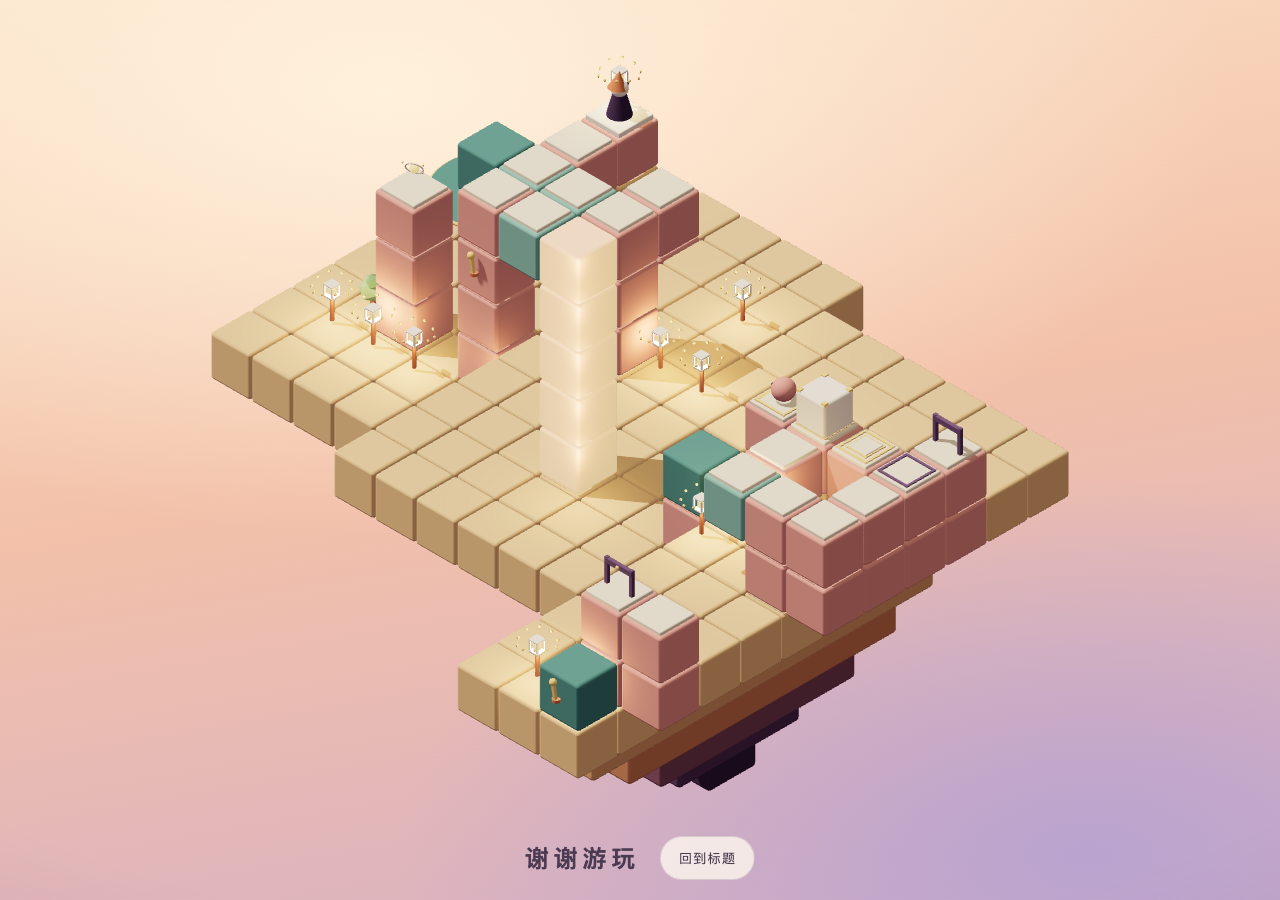
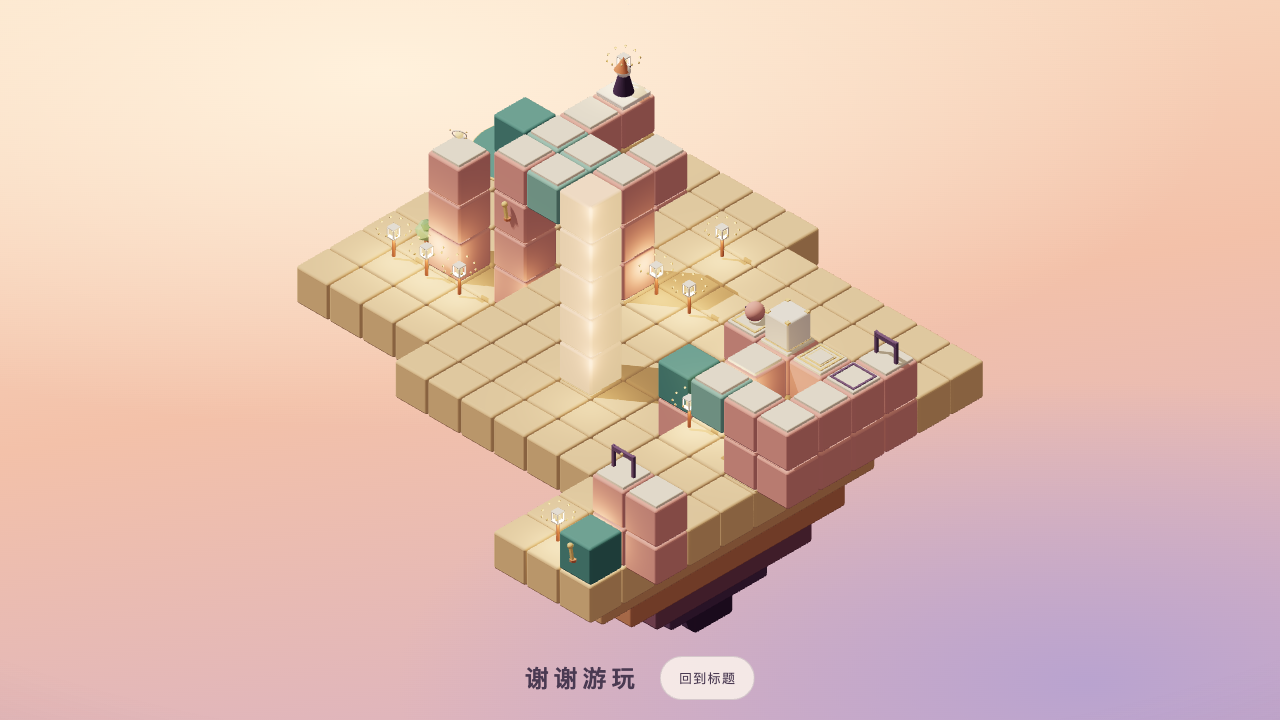
docs: 完成二十关性能与文档收尾（T6.22）

Changed region(s): [[0.1562, 0.0611, 0.8438, 0.9778]]

diff --git a/index.html b/index.html
@@ -10,7 +10,7 @@
     <link rel="icon" type="image/svg+xml" href="./favicon.svg" />
     <meta
       name="description"
-      content="转动桥梁、移动平台，路看似相连，就能走过去。Seemingly（积木错位）是一款打开即玩的等距视角解谜游戏，九关旅程，进度保存在浏览器本地。"
+      content="转动桥梁、移动平台，路看似相连，就能走过去。Seemingly（积木错位）是一款打开即玩的等距视角解谜游戏，十五个主线关卡、五个挑战，进度保存在浏览器本地。"
     />
     <title>Seemingly · 积木错位</title>
     <link rel="canonical" href="https://zzugbb.github.io/Seemingly/" />
@@ -20,7 +20,7 @@
     <meta property="og:title" content="Seemingly · 积木错位" />
     <meta
       property="og:description"
-      content="转动桥梁、移动平台，路看似相连，就能走过去。Seemingly（积木错位）是一款打开即玩的等距视角解谜游戏，九关旅程，进度保存在浏览器本地。"
+      content="转动桥梁、移动平台，路看似相连，就能走过去。Seemingly（积木错位）是一款打开即玩的等距视角解谜游戏，十五个主线关卡、五个挑战，进度保存在浏览器本地。"
     />
     <meta property="og:url" content="https://zzugbb.github.io/Seemingly/" />
     <meta property="og:image" content="https://zzugbb.github.io/Seemingly/social-card.png" />
@@ -32,7 +32,7 @@
     <meta name="twitter:title" content="Seemingly · 积木错位" />
     <meta
       name="twitter:description"
-      content="转动桥梁、移动平台，路看似相连，就能走过去。Seemingly（积木错位）是一款打开即玩的等距视角解谜游戏，九关旅程，进度保存在浏览器本地。"
+      content="转动桥梁、移动平台，路看似相连，就能走过去。Seemingly（积木错位）是一款打开即玩的等距视角解谜游戏，十五个主线关卡、五个挑战，进度保存在浏览器本地。"
     />
     <meta name="twitter:image" content="https://zzugbb.github.io/Seemingly/social-card.png" />
     <meta name="twitter:image:alt" content="积木错位标题画面：黄昏天空中的漂浮积木岛、戴尖帽的小人和灯笼。" />

diff --git a/docs/performance.md b/docs/performance.md
@@ -1,6 +1,80 @@
-# 性能检查（T6.19）
+# 性能检查（T6.22）
 
-检查日期：2026-10-24。基线：`a776e87` 加本任务灯笼光粒合批。当前正式五章十五关，以下为最新结果；阶段一十二关和首版九关记录保留在文末，不能代替本轮数据。
+检查日期：2026-10-25。运行基线：`f3541d4`，当前十五主线加五挑战、二十关／六十项评价。本轮更新文档、正式截图与分享简介，保留已确认的关卡、目标、revision、存档、依赖与h1混音；历史三轮数据保留在文末，不能替代本轮结果。
+
+## 本轮范围与方法
+
+- 用户表示五挑战试玩完成，在明确询问整体与慢速音乐是否有难度、操作或反馈盖声问题后回复“没有”。据此确认本轮体验与声音，继续技术收尾，不自动推送。
+- Browser插件不可用，使用已有Playwright／Chromium147。ANGLE (Apple, ANGLE Metal Renderer: Apple M5 Pro, Unspecified Version)；WebGL2，桌面1280×720高画质、手机尺寸375×667低画质，DPR均1，正常动态。两组顺序执行，采样期间不并行构建、测试、音频导出或其他浏览器。
+- 隔离5182只为正式源码加入临时只读Scene／Worker探针，不替换关卡或写角色状态；逐步真实点击并与rules状态比对，每步截图刷新再等空闲。探针不在src与生产构建。5180用户存档未访问、清空或预置。
+- 手机从全新进度完成十五关全收集、自然解锁并完成五挑战全收集。桌面从新进度完成十五关主线；挑战阶段只导入该手机实玩得到的母章记录，与桌面已实际取得的主线评价合并后解锁，未伪造光点或挑战成绩。这是两套隔离验收流程，不称桌面主线一次就自然解锁了所有挑战。
+- 每关提示Worker ready后预热0.6秒，再取60帧。调用数为Scene.onAfterRender的renderer.info.render.calls，含高画质阴影pass，低画质逐关确认关闭阴影。帧时间中位数／P95来自59个间隔。后台准备含Worker创建、模块加载与策略建立，并非纯analyze时间。
+- 全过程峰值覆盖所走解法、运动、收光、点灯、完成卡及完整十五灯／塔演出后1.2秒，不穷举所有机关排列。手机仅尺寸模拟，**不代表中端手机或集成显卡真机长期60帧验收**；此项硬件限制保留。
+
+## 二十关结果
+
+调用列为“开局 / 全过程峰值”；帧时间为“中位数 / P95”，单位毫秒。后台准备同为毫秒。
+
+| 关卡 | 高画质调用 | 低画质调用 | 高画质帧时间 | 低画质帧时间 | 后台准备 高 / 低 |
+| --- | ---: | ---: | ---: | ---: | ---: |
+| 1 · 启程 | 93 / 95 | 66 / 68 | 8.3 / 9.2 | 8.3 / 9.2 | 14.6 / 24.4 |
+| 2 · 转动 | 75 / 77 | 56 / 58 | 8.3 / 9.6 | 8.3 / 8.9 | 13.0 / 12.8 |
+| 3 · 随行 | 84 / 86 | 62 / 64 | 8.4 / 9.4 | 8.3 / 9.1 | 12.3 / 13.4 |
+| 4 · 换乘 | 115 / 117 | 85 / 87 | 8.4 / 9.4 | 8.3 / 9.1 | 14.3 / 15.6 |
+| 5 · 叠庭 | 169 / 171 | 121 / 123 | 8.3 / 9.6 | 8.3 / 9.3 | 24.5 / 23.2 |
+| 6 · 回环 | 157 / 159 | 117 / 119 | 8.3 / 9.2 | 8.4 / 9.8 | 20.6 / 21.3 |
+| 7 · 停靠 | 124 / 126 | 93 / 95 | 8.3 / 9.9 | 8.2 / 9.9 | 24.3 / 23.5 |
+| 8 · 联动 | 150 / 152 | 114 / 116 | 8.4 / 9.1 | 8.3 / 9.6 | 32.1 / 30.7 |
+| 9 · 牵引 | 185 / 187 | 135 / 137 | 8.3 / 9.3 | 8.3 / 9.8 | 40.6 / 39.3 |
+| 10 · 推动 | 176 / 178 | 131 / 133 | 8.5 / 9.2 | 8.3 / 9.7 | 45.0 / 45.4 |
+| 11 · 越界 | 216 / 218 | 166 / 168 | 8.3 / 9.2 | 8.3 / 10.4 | 137.8 / 131.1 |
+| 12 · 重量 | 248 / 250 | 186 / 188 | 8.3 / 9.6 | 8.3 / 10.2 | 392.6 / 388.9 |
+| 13 · 留步 | 170 / 172 | 126 / 128 | 8.4 / 9.2 | 8.3 / 9.9 | 202.0 / 199.0 |
+| 14 · 相守 | 196 / 198 | 151 / 153 | 8.3 / 9.6 | 8.3 / 10.0 | 885.6 / 868.7 |
+| 15 · 归来 | 208 / 347 | 159 / 275 | 8.2 / 9.7 | 8.2 / 10.3 | 339.0 / 342.6 |
+| 挑战1 · 回针 | 132 / 134 | 97 / 99 | 8.3 / 9.1 | 8.2 / 9.9 | 128.2 / 107.5 |
+| 挑战2 · 分岸 | 216 / 218 | 152 / 154 | 8.3 / 9.3 | 8.3 / 10.0 | 131.9 / 116.4 |
+| 挑战3 · 逆织 | 160 / 162 | 121 / 123 | 8.3 / 10.0 | 8.3 / 10.2 | 124.6 / 50.6 |
+| 挑战4 · 递位 | 299 / 301 | 223 / 225 | 8.3 / 10.5 | 8.3 / 9.8 | 1180.2 / 1160.3 |
+| 挑战5 · 相托 | 262 / 264 | 198 / 200 | 8.4 / 9.7 | 8.4 / 10.1 | 1450.3 / 1381.8 |
+
+主线十五关152／176步，挑战五关94／114步；桌面合计246步，手机尺寸合计290步。高／低画质全过程峰值347／275，均低于400次预算；无需修改渲染或谜题。后台准备最慢1450.3／1381.8ms。纯函数冷求解两秒及主线30000／挑战100000状态门槛仍由现有测试强制，不以后台准备时间替代。
+
+## 进度、界面与声音确认
+
+两套流程起初均只有第一关可玩，二十张卡与六组入口可见。手机十五关全部全收集后自然解锁五挑战；完成后15/15、44/60。桌面十五关主线阶段33/60，载入实际手机母章记录合并历史后45/60，再实玩挑战达到56/60。没有预置满评价；全收集与最少步数分别累计。
+
+挑战完成均回到选关，未跳到可能锁定的下一挑战，也未误入主线结局；十五关仍完成十五灯、塔与“谢谢游玩”。两套流程刷新保留成绩和静音，首次教学记忆保持；重复提示局完成第一关不抹已有三项评价。桌面真实预览与手机无预览保持，无横向溢出、错误覆盖或应用错误；仅保留已有Clock／阴影提示。
+
+T6.21已验证正式五挑战干扰、撤销、提示局补评及约221秒慢速乐句循环；本轮用户进一步明确认可整体体验与新声，保留同一源码和混音，不重新调音。减少动态另以手机尺寸实点挑战五与终章，确认必要运动保留、灯笼光粒不创建；完整操作日志见本机记录。
+
+页面及社交分享简介已由旧“九关旅程”改为十五主线与五挑战。README更新为当前挑战五桌面交接与挑战二手机开局，完整结局截图也来自本轮f3541d4。参考设计图仍标原型，不冒充正式实景；这些图片只由文档引用，不进入游戏首屏资源。
+
+![当前正式十五灯结局](assets/ending.png)
+
+## 生产资源与子路径
+
+Node24 zlib.gzipSync默认参数，体积不含HTTP头；服务端压缩参数可能不同。首屏资源不含按需Worker及文档图片。
+
+| 首屏资源 | 原始字节 | gzip字节 |
+| --- | ---: | ---: |
+| dist/index.html | 2638 | 921 |
+| dist/assets/index-BPHV1jw0.js | 1284087 | 351184 |
+| dist/assets/index-DW2B41fi.css | 16777 | 3923 |
+| dist/favicon.svg | 250 | 170 |
+| **合计** | **1303752** | **356198** |
+
+首屏约356.2 KB，低于1 MB预算；提示Worker另为51054字节／gzip 11242字节。保留原始chunk超过500 KB提示，不为去掉警告拆包。
+
+生产构建在隔离5183的`/Seemingly/`子路径检查标题、首关、提示Worker、20卡／6组／初始19锁定，再导入本轮实际进度进入第五挑战并请求提示；两关Worker均返回对应最少步数3／19与有效下一步，无404、无应用错误、无场景测量探针。完整交互及帧测量来自前述开发源，不能将生产冒烟检查写成生产二十关完整实玩。
+
+复核命令仍为npm run build和Node zlib.gzipSync，旧节保留完整命令。四项检查及393项测试通过。T6.22本地收尾完成，未推送发布；目标设备长期帧率仍待真机补测，不将本机数据外推为所有设备稳定60帧。逐关截图、完整测量、进度与脚本在/private/tmp/seemingly-t622/，正式结论以本文为准。
+
+---
+
+## 阶段二历史基线（T6.19）
+
+检查日期：2026-10-24。基线：`a776e87` 加本任务灯笼光粒合批。当时正式五章十五关；本节仅为历史记录，当前二十关以T6.22结果为准。
 
 ## 本轮范围与方法
 
@@ -48,7 +122,7 @@
 - 正常动态下实点撤销／再次点灯／重开／退出与静音恢复，确认实例光粒清空、旧演出和未来音效取消；实际音频采样峰值0.0557，总源≤11、音乐≤6、反馈拒绝0。第五章实际运行195.76秒（超过两个91.429秒循环），无错章、无报错，音源峰值5且未随循环累积，采样峰值0.0270；静音清零、恢复只重建音乐。手机减少动态模式另按15步主线实点完成全部结局，确认十五灯均不创建光粒。音频源码及混音未调，电平不替代已获得的用户听感确认。
 - README更新为第十四关桌面返程与第十三关手机开局，补巡逻随动作推进的玩法；正式结局截图见下图。旧设计原型图仍标为原型，不冒充运行图。完整日志／逐关截图／脚本在本机`/private/tmp/seemingly-t619/`，正式汇总以本文和关卡稿为准。
 
-![正式十五灯结局](assets/ending.png)
+![十五灯结局示意（图由T6.22更新，本节数值仍为T6.19）](assets/ending.png)
 
 ## 当前资源与子路径
 

diff --git a/README.md b/README.md
@@ -17,11 +17,11 @@
 
 ---
 
-![第十四关「相守」：箱子与巡逻共同守门](docs/assets/gameplay.png)
+![挑战五「相托」：运回箱子，让出站位](docs/assets/gameplay.png)
 
-当前开发版提供五章十五关：从改变连接、乘坐和换乘，到联动、压板召台、推箱规划与巡逻重量交接，最终点亮十五盏灯和一座塔。挑战章尚未开放。在线版本以最近一次发布为准。
+当前开发版提供五章十五个主线关卡与五个挑战关：从改变连接、乘坐和换乘，到联动、压板召台、推箱规划与巡逻重量交接。主线最终点亮十五盏灯和一座塔，挑战独立解锁、不影响结局。在线版本以最近一次发布为准。
 
-五章依次为「看似、转动、升起、推动、遮挡」，每章三关。五章关卡、完整结局与合成音乐已通过本轮用户试玩确认，后续进度见[路线图](docs/roadmap.md)。
+五章依次为「看似、转动、升起、推动、遮挡」，每章三关。五章主线、完整结局、五个挑战与各自音乐已通过分阶段用户试玩确认，开发记录见[路线图](docs/roadmap.md)。
 
 ## 玩法
 
@@ -33,21 +33,23 @@
 4. 第五章的小生物每当你完成一个动作就走一格，受阻会停下，也能压住双框压板；等待现实时间不会让它前进。
 5. 集齐必需光点后抵达灯笼即可通关；带细环的是选做光点。每关可获得抵达、全收集与最少步数三项评价，历史分别累计；本局使用提示会影响本局步数评价。进度保存在浏览器本地。
 
-电脑和手机都用点击操作。`Z` 撤销，`H` 提示，`R` 重新开始，`Esc` 返回选关；右上角可切换静音。首次交互后播放按章编写的主题音乐与合成反馈音；收光、点灯等反馈出现时背景会短暂降低，静音选择也会保存。
+第一章全部通关后解锁挑战一；第二至五章集齐本章选做光点后解锁对应挑战。挑战进一步运用已学机制：安排回访顺序、回岸换端、换用正反控制、交接箱位和让巡逻换岗。二十关共有六十项历史评价，挑战完成后回到选关，可自由重玩。
+
+电脑和手机都用点击操作。`Z` 撤销，`H` 提示，`R` 重新开始，`Esc` 返回选关；右上角可切换静音。首次交互后播放按章编写的主题音乐与合成反馈音，挑战沿用对应章乐句并以90%速度播放；收光、点灯等反馈出现时背景会短暂降低，静音选择也会保存。
 
 需要支持 WebGL2 的浏览器。手机默认使用低画质，也可用 `?quality=low` 或 `?quality=high` 指定画质；支持系统的「减少动态效果」设置。
 
-<img src="docs/assets/gameplay-mobile.png" alt="手机尺寸下的第十三关「留步」" width="300" />
+<img src="docs/assets/gameplay-mobile.png" alt="手机尺寸下的挑战二「分岸」：回岸换端再渡" width="300" />
 
 ## 技术亮点
 
 - **屏幕上的连通**：用 `(x - y, z - y)` 判断路面是否相邻，以固定等距正交视角呈现跨越三维距离的错觉连接。
-- **可验证的关卡**：纯 TypeScript 规则层供模拟器、求解器和后台提示共用；十五关均附确定解法，由 Vitest 校验连通、遮挡、机关规则与难度目标。
+- **可验证的关卡**：纯 TypeScript 规则层供模拟器、求解器和后台提示共用；二十关均附确定解法，由 Vitest 校验连通、遮挡、机关规则与难度目标。
 - **代码生成的积木世界**：圆角积木、岛屿岩层、树木、角色与灯笼由几何体组成，共享积木几何体、缓存材质，同色静态实心积木合批绘制。
 - **实时合成声音**：Web Audio 生成五章主题乐句、脚步、机关、收光和点灯反馈；按实际收光展开律动，关键反馈时背景让位，无外部音频文件。
 - **打开即玩**：纯静态站点，无账号、后端、统计或广告；进度与静音保存在浏览器本地。
 
-当前十五关的绘制调用、加载体积、提示准备耗时与测试环境见[性能检查](docs/performance.md)。桌面与手机尺寸模拟分别实测，不将模拟结果视为目标手机的真机帧率。
+当前二十关的绘制调用、加载体积、提示准备耗时与测试环境见[性能检查](docs/performance.md)。桌面与手机尺寸模拟分别实测，不将模拟结果视为目标手机的真机帧率。
 
 ## 本地运行
 
@@ -65,9 +67,9 @@ npm run build         # 生成静态站点到 dist/
 npm run preview       # 预览构建产物
 ```
 
-GitHub Actions 在推送到 `main` 后执行类型检查、格式检查、测试和构建，再发布到 GitHub Pages 的 `/Seemingly/` 子路径。开发进度以路线图为准；README 截图来自本地十五关开发版，在线版本随发布更新。
+GitHub Actions 在推送到 `main` 后执行类型检查、格式检查、测试和构建，再发布到 GitHub Pages 的 `/Seemingly/` 子路径。开发进度以路线图为准；README 截图来自本地二十关开发版，在线版本随发布更新。
 
-`npm run metrics` 输出全部关卡的最少步数、全收集最少步数、可达状态数、死局数、随机通关率、标准解法中的错觉连接数与取舍次数。随机模拟固定种子为 `20261016`，每关运行 500 次，步数预算采用难度目标中的设置，未设置时使用 30 步。当前十五关均由设计者在 `src/game/levels/targets.ts` 登记目标，测试强制检查指标及标准解法最优步数。
+`npm run metrics` 输出全部关卡的最少步数、全收集最少步数、可达状态数、死局数、随机通关率、标准解法中的错觉连接数与取舍次数。随机模拟固定种子为 `20261016`，每关运行 500 次，步数预算采用难度目标中的设置，未设置时使用 30 步。当前二十关均由设计者在 `src/game/levels/targets.ts` 登记目标，测试强制检查指标及标准解法最优步数。
 
 ## 技术栈
 
@@ -104,7 +106,7 @@ Seemingly/
 | [设计稿](docs/design.md) | 核心规则、机关、关卡、界面流程、反馈与声音 |
 | [关卡制作规范](docs/level-design.md) | 坐标系、遮挡规则、制作步骤、校验 |
 | [架构说明](docs/architecture.md) | 目标目录、数据格式、模拟器接口、性能预算、部署 |
-| [性能检查](docs/performance.md) | 十五关绘制调用、帧时间、首屏体积、提示耗时与测量限制 |
+| [性能检查](docs/performance.md) | 二十关绘制调用、帧时间、首屏体积、提示耗时与测量限制 |
 | [美术方向](docs/art-direction.md) | 配色、积木、角色、机关、灯笼、界面 |
 | [路线图](docs/roadmap.md) | 按顺序执行的任务与验收标准 |
 

diff --git a/docs/art-direction.md b/docs/art-direction.md
@@ -224,8 +224,12 @@ T6.17a结局原型发现桌面纵排文字与岩层重叠，T6.18已将>720px的
 
 [五个挑战稿](levels/challenges.md)复用各母章的材质、配色、固定相机、轻微收身与剪影；三庭折线旋桥、高庭双端台、双源远桥、侧院运箱、箱与巡逻交接逐步组合。2～4处岛屿、3～6件装饰，181姿态离散净空包含顶板／岩层／底盘，不能把合法错觉跨高度连接消除。正式手机原型图为design-challenge-1～5-mobile.png，非真机。
 
-第三关pivot同高的额外实心块须移除，托盘由下一层柱顶承接；第五关高3退让格及压板给移动人物留净空，禁止擅降高度。T6.21挑战游玩沿用主线把手按压、对应结构提亮和一句运动／到位，不提示正确箱位；标题与选关预览关闭。卡片不加历史说明或“待补”标签，无解吐司用既有正文墨色；不另造视觉风格。本段记录T6.20设计原型；T6.21已正式接入，用户整体确认仍待T6.22。
+第三关pivot同高的额外实心块须移除，托盘由下一层柱顶承接；第五关高3退让格及压板给移动人物留净空，禁止擅降高度。T6.21挑战游玩沿用主线把手按压、对应结构提亮和一句运动／到位，不提示正确箱位；标题与选关预览关闭。卡片不加历史说明或“待补”标签，无解吐司用既有正文墨色；不另造视觉风格。本段记录T6.20设计原型；T6.21已正式接入，用户整体已于T6.22获本轮确认。
 
 ## T6.21正式挑战呈现
 
-五个挑战沿用T6.20几何、颜色与固定取景，未增新资源或风格。正式挑战启用既有按压、结构提亮、剪影及临时运动文字；空闲收起底栏，不重复首次教学。卡片主题短句与真实预览一致，锁定原因常显、已解锁卡片不加状态说明，完成出口统一回选关。挑战无解吐司用正文墨色／暖白底，避免入场淡化时白字难辨；主线吐司保持。实际桌面与手机尺寸截图在本轮隔离验收记录中，T6.20参考图保留原型身份，T6.22整体体验仍待用户确认。
+五个挑战沿用T6.20几何、颜色与固定取景，未增新资源或风格。正式挑战启用既有按压、结构提亮、剪影及临时运动文字；空闲收起底栏，不重复首次教学。卡片主题短句与真实预览一致，锁定原因常显、已解锁卡片不加状态说明，完成出口统一回选关。挑战无解吐司用正文墨色／暖白底，避免入场淡化时白字难辨；主线吐司保持。实际桌面与手机尺寸截图在本轮隔离验收记录中，T6.20参考图保留原型身份，T6.22整体体验与慢速音乐已获本轮用户确认，保留现有呈现。
+
+## 最终正式截图（T6.22）
+
+2026-10-25用户确认当前挑战体验与声音，沿用现有呈现。README桌面图更新为挑战五「相托」运箱回岸后让出站位，手机图为挑战二「分岸」开局；完整十五灯结局同轮归档，均来自f3541d4正式游戏数据。桌面1280×720高画质、手机375×667低画质实点完成二十关，另验减少动态不创建光粒；没有改风格、相机或几何。设计参考图保留原型身份，正式截图见[性能检查](performance.md)。

diff --git a/docs/roadmap.md b/docs/roadmap.md
@@ -372,7 +372,11 @@ T3.4～T3.12 每关的验收：
   - 默认设计检查通过；正式--runtime在并行重负载下第五关曾2191ms超两秒，结束其他浏览器流程后单独重测完整通过，后两关1555／1806ms，未放宽预算或修改谜题。五关结构、精确指标、提示、反事实、181姿态净空、十五关及targets保护通过，保持离散检查非连续证明的边界。
   - 隔离5182正式源码：1280×720高画质五关主线23／16／18／18／19，375×667低画质全收集23／21／20／22／28，逐动作与rules状态一致；预览、完成出口、临时运动文字、刷新及56/60进度通过。绘制峰值301／225，worker最慢约1525／1491ms；手机为尺寸模拟，非真机。实际声音峰值0.049／0.056，总源≤12、音乐≤7／6、反馈拒绝0；第五挑战连续约221秒跨两轮101.587秒乐句、和弦同步、静音清源及暂停恢复、退出／重开取消通过。
   - 第二挑战近岸可以一次经固定岸廊自动换端；“两端不通”仅指远岸脱离岸廊，已澄清文案，不禁止合法路线。正式试玩与新慢速听感仍由T6.22确认；四项检查、393项测试及完整操作记录见[挑战交接](levels/challenges.md)。保留已有Clock、阴影和构建体积提示，不推送，5180用户存档未访问或预置。
-- [ ] **T6.22 最终收尾**：用户试玩调优、性能复测、README 与截图更新。完成后可以发布。
+- [x] **T6.22 最终收尾**：用户试玩调优、性能复测、README 与截图更新。完成后可以发布。
+  - 2026-10-25用户表示试玩完成，在明确询问五挑战整体体验与新慢速音乐是否存在难度、操作或反馈盖声问题后回复“没有”。记录本轮体验与声音确认通过，保留f3541d4数据及混音；完成下列本地收尾，不自动推送。
+  - 隔离5182正式二十关逐动作实点：桌面1280×720高画质主线152步加挑战94步，手机375×667低画质全收集176步加挑战114步。手机由新进度自然解锁五挑战；桌面挑战阶段只合并手机实玩母章记录，分别达到56/60、44/60。每步与rules一致，十五灯／塔、挑战返回选关、刷新进度／静音、提示局不抹历史评价、减少动态无光粒均通过，无应用错误或横向溢出。手机仅尺寸模拟，非真机。
+  - 全过程绘制峰值347／275，后台准备最慢1450.3／1381.8ms，均未触及既定预算，无需改渲染或规则。首屏gzip356198字节，提示Worker另11242字节；生产 `/Seemingly/` 首关及第五挑战Worker返回正确3／19步与有效提示，无404或场景探针。目标硬件长期帧率仍待真机补验，详见[性能检查](performance.md)。
+  - README同步十五主线／五挑战、六十项评价与玩法；桌面挑战五、手机挑战二及完整结局更新为正式截图，分享简介清理旧九关描述。四项检查及21文件393项测试通过；关卡／targets／revision／音乐／存档／依赖保持，5180用户服务及存档未操作。保留Clock、阴影与构建体积提示，过程记录/private/tmp/seemingly-t622/，本地提交不推送。
 
 T6.11、T6.14、T6.18、T6.21 每关的验收：
 

diff --git a/docs/levels/challenges.md b/docs/levels/challenges.md
@@ -1,6 +1,6 @@
 # 五个挑战关设计与开发交接（T6.20）
 
-2026-10-25。T6.20交付五份设计稿、可执行验证与渲染原型；T6.21现已按本稿正式接入五挑战及独立目标。主线仍十五关，全部正式关二十关／六十项评价；前十五关、原目标、revision、存档格式、既有混音和依赖保持。用户整体试玩与挑战慢速新声仍待T6.22确认。本稿与challenge-1～5为实现合同。
+2026-10-25。T6.20交付五份设计稿、可执行验证与渲染原型；T6.21现已按本稿正式接入五挑战及独立目标。主线仍十五关，全部正式关二十关／六十项评价；前十五关、原目标、revision、存档格式、既有混音和依赖保持。用户整体试玩与挑战慢速新声已在T6.22获本轮确认；性能及文档收尾见后续记录。本稿与challenge-1～5为实现合同。
 
 ## 能力、发现与难度衔接
 
@@ -93,3 +93,11 @@ T6.21依次完成五个数据文件与目标、入口预览及完成出口、挑
 五章各31秒试听复用实际theory、renderCourtyardNote／Pad、renderSound、混响和h1参数，包含探索、收光、必需集齐、选做、推动／门、点灯和新增评价。输出峰值依次0.0712／0.0739／0.0750／0.0820／0.0828，零削波及反馈拒绝，最多11／11／10／11／9源，没有响度归一化；试听不进入站点资源，文件在/private/tmp/seemingly-t621/chapter-N-challenge.wav。电平和技术检查不代替主观听感，新慢速试听、难度及整体体验仍待T6.22用户确认。
 
 使用前端测试技能，Browser插件不可用，复用已有Playwright／Chromium147。截图、实际操作、冷求解与音频记录在/private/tmp/seemingly-t621/；正式数据以本稿为准。5180服务保留，用户存档未访问、未清空、未预置；四项提交检查与393项测试通过后本地提交，不推送，不勾选T6.22。
+
+## T6.22用户确认与最终收尾
+
+2026-10-25用户完成试玩，在明确询问五挑战整体与新慢速音乐是否有难度、操作或反馈盖声问题后回复“没有”。据此确认本轮体验与声音，保留f3541d4五关、原目标、revision及h1混音；上方待确认文字均为各轮历史交付状态。
+
+正式二十关重测：桌面1280×720高画质主线与挑战246步，手机375×667低画质全收集290步；逐动作与rules一致，主线十五灯结局、挑战回选关、进度及静音持久、提示局不抹历史评价、减少动态通过。峰值347／275次绘制，后台准备最慢约1450／1382ms，无需改关卡或渲染。手机仅尺寸模拟，非真机长期帧率证明。完整逐关表、资源与生产子路径检查见[性能检查](../performance.md)。
+
+README、三张正式截图及分享简介同步当前十五主线加五挑战。四项检查与393项测试通过后完成T6.22本地提交，不推送；5180用户存档未访问、清空或预置。临时过程在/private/tmp/seemingly-t622/，完整设计仍以五份正式稿为准。

diff --git a/docs/levels/challenge-5.md b/docs/levels/challenge-5.md
@@ -282,9 +282,9 @@ b\a     0    1    2    3    4    5    6    7    8    9   10   11   12   13
 
 ## 声音与界面合同
 
-复用第5章已确认的courtyard谱面与h1混音，挑战按既定设计以90%速度播放，反馈音保持原速度、音量和35ms让位。**T6.21已统一接入音符、和弦、脉冲、currentChord与暂停恢复的90%时钟；慢速版仍待本轮用户试听，母章原速认可及电平检查不代替听感确认。** 不写新旋律、不恢复低频嗡鸣，不靠巡逻或正确箱位触发推进；只响应实际收光、集齐必需、点灯与新评价。
+复用第5章已确认的courtyard谱面与h1混音，挑战按既定设计以90%速度播放，反馈音保持原速度、音量和35ms让位。**T6.21已统一接入音符、和弦、脉冲、currentChord与暂停恢复的90%时钟；2026-10-25用户已确认本轮挑战体验与慢速听感，保留现有谱面及混音；该确认来自本轮实际试玩，非电平检查外推。** 不写新旋律、不恢复低频嗡鸣，不靠巡逻或正确箱位触发推进；只响应实际收光、集齐必需、点灯与新评价。
 
-挑战不新增首次教学或常驻操作说明。T6.21复用主线已认可的按压、提亮、运动／到位一句反馈和不可达文案；标题、选关预览关闭。完成后返回选关，不进入十五灯主线结局；三项评价独立累计，提示只影响本局步数评价。上述行为已由T6.21正式接线；用户整体试玩与新慢速试听仍属T6.22。
+挑战不新增首次教学或常驻操作说明。T6.21复用主线已认可的按压、提亮、运动／到位一句反馈和不可达文案；标题、选关预览关闭。完成后返回选关，不进入十五灯主线结局；三项评价独立累计，提示只影响本局步数评价。上述行为已由T6.21正式接线；T6.22已获本轮整体试玩与新慢速试听确认，性能及文档收尾见共同稿。
 
 ## 预期指标
 

diff --git a/docs/levels/challenge-1.md b/docs/levels/challenge-1.md
@@ -290,9 +290,9 @@ b\a    -3   -2   -1    0    1    2    3    4    5    6    7    8
 
 ## 声音与界面合同
 
-复用第1章已确认的courtyard谱面与h1混音，挑战按既定设计以90%速度播放，反馈音保持原速度、音量和35ms让位。**T6.21已统一接入音符、和弦、脉冲、currentChord与暂停恢复的90%时钟；慢速版仍待本轮用户试听，母章原速认可及电平检查不代替听感确认。** 不写新旋律、不恢复低频嗡鸣，不靠巡逻或正确箱位触发推进；只响应实际收光、集齐必需、点灯与新评价。
+复用第1章已确认的courtyard谱面与h1混音，挑战按既定设计以90%速度播放，反馈音保持原速度、音量和35ms让位。**T6.21已统一接入音符、和弦、脉冲、currentChord与暂停恢复的90%时钟；2026-10-25用户已确认本轮挑战体验与慢速听感，保留现有谱面及混音；该确认来自本轮实际试玩，非电平检查外推。** 不写新旋律、不恢复低频嗡鸣，不靠巡逻或正确箱位触发推进；只响应实际收光、集齐必需、点灯与新评价。
 
-挑战不新增首次教学或常驻操作说明。T6.21复用主线已认可的按压、提亮、运动／到位一句反馈和不可达文案；标题、选关预览关闭。完成后返回选关，不进入十五灯主线结局；三项评价独立累计，提示只影响本局步数评价。上述行为已由T6.21正式接线；用户整体试玩与新慢速试听仍属T6.22。
+挑战不新增首次教学或常驻操作说明。T6.21复用主线已认可的按压、提亮、运动／到位一句反馈和不可达文案；标题、选关预览关闭。完成后返回选关，不进入十五灯主线结局；三项评价独立累计，提示只影响本局步数评价。上述行为已由T6.21正式接线；T6.22已获本轮整体试玩与新慢速试听确认，性能及文档收尾见共同稿。
 
 ## 预期指标
 

diff --git a/docs/levels/challenge-4.md b/docs/levels/challenge-4.md
@@ -337,9 +337,9 @@ b\a     1    2    3    4    5    6    7    8    9   10   11   12
 
 ## 声音与界面合同
 
-复用第4章已确认的courtyard谱面与h1混音，挑战按既定设计以90%速度播放，反馈音保持原速度、音量和35ms让位。**T6.21已统一接入音符、和弦、脉冲、currentChord与暂停恢复的90%时钟；慢速版仍待本轮用户试听，母章原速认可及电平检查不代替听感确认。** 不写新旋律、不恢复低频嗡鸣，不靠巡逻或正确箱位触发推进；只响应实际收光、集齐必需、点灯与新评价。
+复用第4章已确认的courtyard谱面与h1混音，挑战按既定设计以90%速度播放，反馈音保持原速度、音量和35ms让位。**T6.21已统一接入音符、和弦、脉冲、currentChord与暂停恢复的90%时钟；2026-10-25用户已确认本轮挑战体验与慢速听感，保留现有谱面及混音；该确认来自本轮实际试玩，非电平检查外推。** 不写新旋律、不恢复低频嗡鸣，不靠巡逻或正确箱位触发推进；只响应实际收光、集齐必需、点灯与新评价。
 
-挑战不新增首次教学或常驻操作说明。T6.21复用主线已认可的按压、提亮、运动／到位一句反馈和不可达文案；标题、选关预览关闭。完成后返回选关，不进入十五灯主线结局；三项评价独立累计，提示只影响本局步数评价。上述行为已由T6.21正式接线；用户整体试玩与新慢速试听仍属T6.22。
+挑战不新增首次教学或常驻操作说明。T6.21复用主线已认可的按压、提亮、运动／到位一句反馈和不可达文案；标题、选关预览关闭。完成后返回选关，不进入十五灯主线结局；三项评价独立累计，提示只影响本局步数评价。上述行为已由T6.21正式接线；T6.22已获本轮整体试玩与新慢速试听确认，性能及文档收尾见共同稿。
 
 ## 预期指标
 

diff --git a/docs/levels/challenge-2.md b/docs/levels/challenge-2.md
@@ -273,9 +273,9 @@ b\a    -3   -2   -1    0    1    2    3    4    5    6    7
 
 ## 声音与界面合同
 
-复用第2章已确认的courtyard谱面与h1混音，挑战按既定设计以90%速度播放，反馈音保持原速度、音量和35ms让位。**T6.21已统一接入音符、和弦、脉冲、currentChord与暂停恢复的90%时钟；慢速版仍待本轮用户试听，母章原速认可及电平检查不代替听感确认。** 不写新旋律、不恢复低频嗡鸣，不靠巡逻或正确箱位触发推进；只响应实际收光、集齐必需、点灯与新评价。
+复用第2章已确认的courtyard谱面与h1混音，挑战按既定设计以90%速度播放，反馈音保持原速度、音量和35ms让位。**T6.21已统一接入音符、和弦、脉冲、currentChord与暂停恢复的90%时钟；2026-10-25用户已确认本轮挑战体验与慢速听感，保留现有谱面及混音；该确认来自本轮实际试玩，非电平检查外推。** 不写新旋律、不恢复低频嗡鸣，不靠巡逻或正确箱位触发推进；只响应实际收光、集齐必需、点灯与新评价。
 
-挑战不新增首次教学或常驻操作说明。T6.21复用主线已认可的按压、提亮、运动／到位一句反馈和不可达文案；标题、选关预览关闭。完成后返回选关，不进入十五灯主线结局；三项评价独立累计，提示只影响本局步数评价。上述行为已由T6.21正式接线；用户整体试玩与新慢速试听仍属T6.22。
+挑战不新增首次教学或常驻操作说明。T6.21复用主线已认可的按压、提亮、运动／到位一句反馈和不可达文案；标题、选关预览关闭。完成后返回选关，不进入十五灯主线结局；三项评价独立累计，提示只影响本局步数评价。上述行为已由T6.21正式接线；T6.22已获本轮整体试玩与新慢速试听确认，性能及文档收尾见共同稿。
 
 ## 预期指标
 
